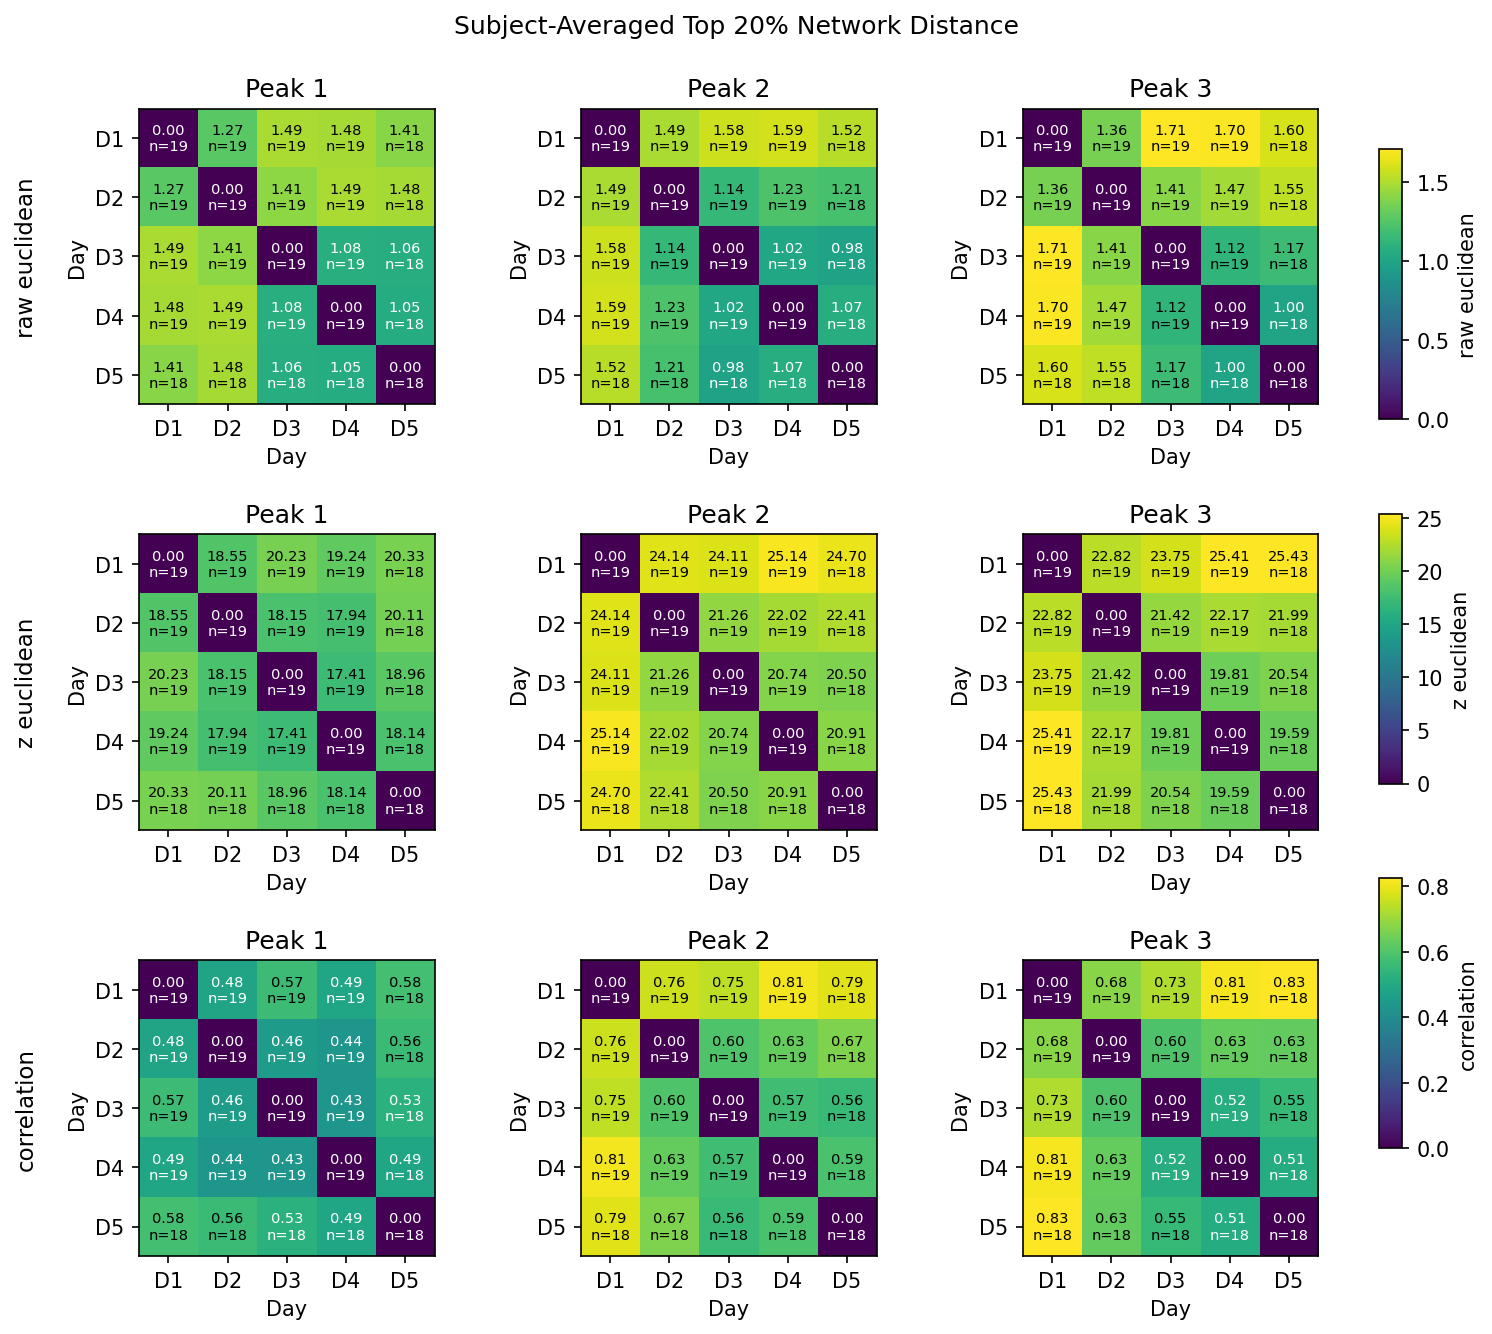
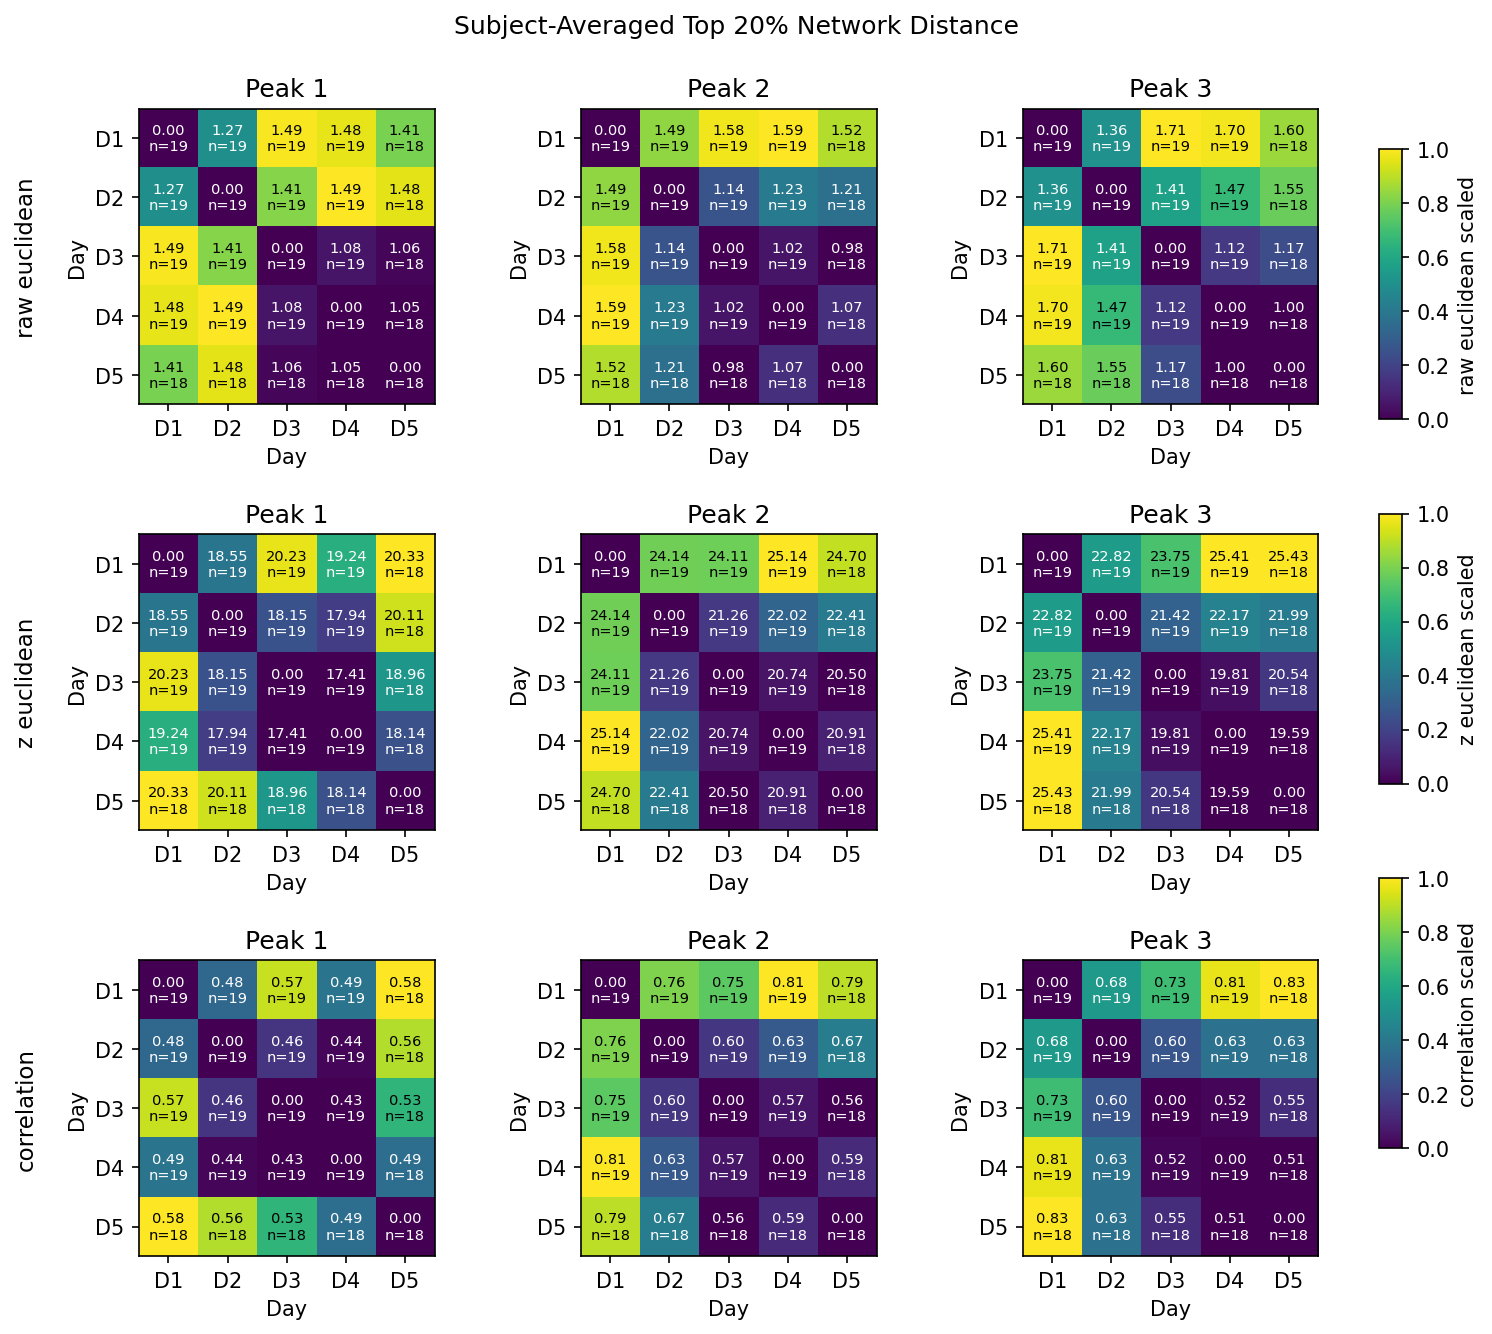
rescale connect results

diff --git a/code/connect_sensorwide_figure.py b/code/connect_sensorwide_figure.py
@@ -1158,6 +1158,34 @@ def distance_metric_label(metric):
     raise ValueError(f"Unknown edge-vector distance metric: {metric}")
 
 
+def matrix_offdiag_minmax_scaled(mat):
+    out = np.full(mat.shape, np.nan, dtype=float)
+    vals = []
+    for r in range(mat.shape[0]):
+        for c in range(mat.shape[1]):
+            val = mat[r, c]
+            if r != c and np.isfinite(val):
+                vals.append(float(val))
+    if len(vals) == 0:
+        raise ValueError("No finite off-diagonal matrix values to scale")
+    arr = np.asarray(vals, dtype=float)
+    val_min = float(np.min(arr))
+    val_max = float(np.max(arr))
+    denom = val_max - val_min
+    for r in range(mat.shape[0]):
+        for c in range(mat.shape[1]):
+            val = mat[r, c]
+            if not np.isfinite(val):
+                continue
+            if r == c:
+                out[r, c] = 0.0
+            elif denom <= np.finfo(float).eps:
+                out[r, c] = 0.5
+            else:
+                out[r, c] = (float(val) - val_min) / denom
+    return out
+
+
 def plot_active_pair_network_distance_matrices(
     day_data, pair_idx, lock_name, band_name, figures_dir
 ):
@@ -1467,21 +1495,16 @@ def plot_active_pair_subject_network_distance_matrices(
     )
     metrics = ["euclidean", "z_euclidean", "correlation"]
     mean_mats = {}
+    display_mats = {}
     n_mats = {}
-    row_vmax = {}
     for metric in metrics:
-        finite_vals = []
         for peak_i in range(1, len(ACTIVE_PAIR_PEAK_WINDOWS) + 1):
             mean_mat, _sem_mat, n_mat = subject_distance_summary(
                 subjects, vector_map, days, metric, peak_i
             )
             mean_mats[(metric, peak_i)] = mean_mat
+            display_mats[(metric, peak_i)] = matrix_offdiag_minmax_scaled(mean_mat)
             n_mats[(metric, peak_i)] = n_mat
-            for val in mean_mat[np.isfinite(mean_mat)]:
-                finite_vals.append(float(val))
-        if len(finite_vals) == 0:
-            raise ValueError(f"No finite subject distances for metric={metric}")
-        row_vmax[metric] = float(np.nanmax(np.asarray(finite_vals, dtype=float)))
 
     labels = []
     for day in days:
@@ -1493,13 +1516,14 @@ def plot_active_pair_subject_network_distance_matrices(
         for peak_i in range(1, len(ACTIVE_PAIR_PEAK_WINDOWS) + 1):
             ax = axes[row_i, peak_i - 1]
             mat = mean_mats[(metric, peak_i)]
+            display_mat = display_mats[(metric, peak_i)]
             n_mat = n_mats[(metric, peak_i)]
             im = ax.imshow(
-                np.ma.masked_invalid(mat),
+                np.ma.masked_invalid(display_mat),
                 origin="upper",
                 cmap=cmap,
                 vmin=0.0,
-                vmax=row_vmax[metric],
+                vmax=1.0,
             )
             ax.set_title(f"Peak {peak_i}")
             ax.set_xticks(range(len(days)))
@@ -1512,8 +1536,9 @@ def plot_active_pair_subject_network_distance_matrices(
                 for c in range(len(days)):
                     if np.isfinite(mat[r, c]):
                         val = float(mat[r, c])
+                        display_val = float(display_mat[r, c])
                         color = "white"
-                        if val > 0.65 * row_vmax[metric]:
+                        if display_val > 0.65:
                             color = "black"
                         ax.text(
                             c,
@@ -1526,7 +1551,11 @@ def plot_active_pair_subject_network_distance_matrices(
                         )
             if peak_i == len(ACTIVE_PAIR_PEAK_WINDOWS):
                 cax = fig.add_axes([0.92, 0.68 - row_i * 0.27, 0.015, 0.20])
-                fig.colorbar(im, cax=cax, label=distance_metric_label(metric))
+                fig.colorbar(
+                    im,
+                    cax=cax,
+                    label=f"{distance_metric_label(metric)} scaled",
+                )
             if peak_i == 1:
                 ax.text(
                     -0.38,
